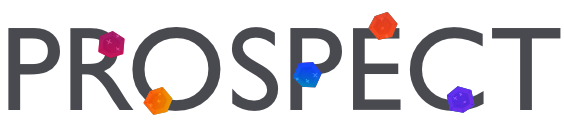
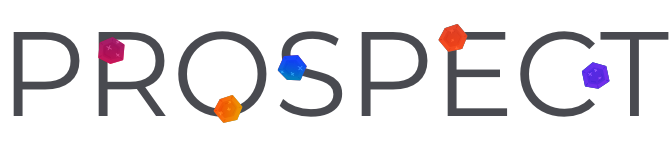
Updates styling

Changed region(s): [[0.0, 0.087, 1.0, 0.8406]]

diff --git a/app/assets/stylesheets/application.scss b/app/assets/stylesheets/application.scss
@@ -15,10 +15,10 @@ $dark-gray: #242427;
 $link-color: #7D7D84 !default;
 $primary-color: rgb(238,143,1) !default;
 $secondary-color: rgb(162,20,93) !default;
+$dark-mode: #0E0E0F;
 @import "materialize";
 @import "materialdesignicons";
-
-
+@import url('https://fonts.googleapis.com/css2?family=Montserrat:wght@300;500&display=swap');
 
 body {
   display: flex;
@@ -83,8 +83,10 @@ footer {
   background-color: $blue-2;
   background-size: cover;
   background-position: center;
-  width: 250px;
-  height: 250px;
+  min-width: 16em;
+  min-height: 16em;
+  max-width: 16em;
+  max-height: 16em;
   padding: 15px;
   margin-top: 22px;
   border-radius: 50%;
@@ -121,9 +123,6 @@ div {
       display: block;
       font-size: .89em;
       min-height: 2em;
-      .mdi-bee::before{
-        font-size: 16pt;
-      }
     }
     .center-button {
       display: flex;
@@ -134,10 +133,10 @@ div {
       margin: 0 auto;
       color: black;
       font-weight: 600;
+      font-family: 'Montserrat', sans-serif;
     }
   }
 }
-
 
 .margin-box {
   margin-top: 2em;
@@ -150,6 +149,13 @@ div {
 
 h1 {
   color: $logo-gray;
+  font-family: 'Montserrat', sans-serif;
+  font-weight: 300;
+}
+
+h5 {
+  font-family: 'Montserrat', sans-serif;
+  font-weight: 300;
 }
 
 .row .col{
@@ -163,7 +169,9 @@ h1 {
   background-clip: text;
   -webkit-background-clip: text;
   -webkit-text-fill-color: transparent;
-  font-weight: 800;
+  font-weight: 300;
+  font-family: 'Montserrat', sans-serif;
+
 }
 
 .ruby {
@@ -171,6 +179,8 @@ h1 {
   background-clip: text;
   -webkit-background-clip: text;
   -webkit-text-fill-color: transparent;
+  font-family: 'Montserrat', sans-serif;
+  font-weight: 300;
 }
 
 .yellow-gradient-text {
@@ -178,6 +188,8 @@ h1 {
   background-clip: text;
   -webkit-background-clip: text;
   -webkit-text-fill-color: transparent;
+  font-family: 'Montserrat', sans-serif;
+  font-weight: 300;
 }
 
 .yellow-gradient {
@@ -194,7 +206,7 @@ h1 {
 
 @media (prefers-color-scheme: dark) {
   body {
-  background: #0E0E0F;
+  background: $dark-mode;
   color: #eee;
   }
   nav {
@@ -207,11 +219,11 @@ h1 {
     color: lighten($logo-gray, 20%);
   }
   .card {
-    background-color: #141414;
+    background-color: lighten($dark-mode, 1%);
   }
   .candidate-picture {
     background-color: darken($blue-2, 20%);
-    border-color: #0E0E0F;
+    border-color: $dark-mode;
   }
   input {
     color: #ddd;
